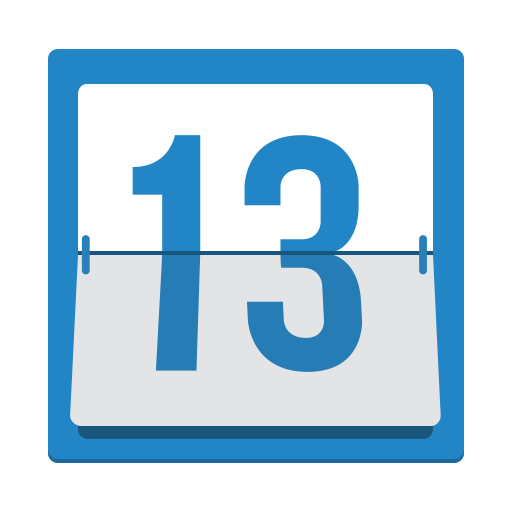
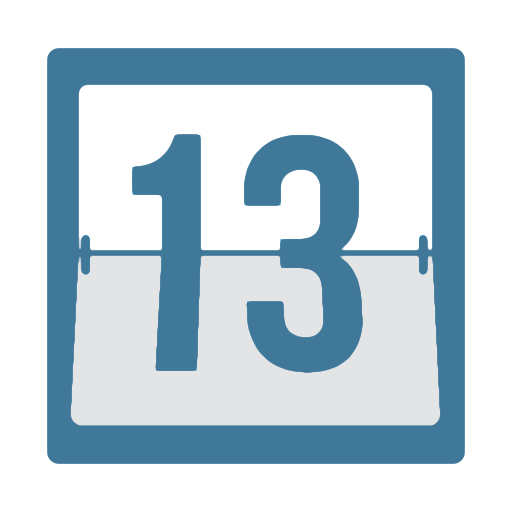
Refactor landing page styles and markup

diff --git a/public/templates/index.html b/public/templates/index.html
@@ -1,126 +1,133 @@
-<header id="main-header" class="row">
-  <div class="col-sm-5 col-sm-offset-1">
-    <img class="img-responsive" src="/images/banner.png" alt="GoSnipIt logo banner">
-  </div>
+<div id="home">
+  <header id="main-header" class="row">
+    <div class="col-sm-12">
+      <div class="page-header text-center">
+        <h1>
+          <span id="main-title">
+            GoSnipIt
+            <i class="fa fa-puzzle-piece"></i>
+          </span>
+          <br>
+          <small>
+            Putting together project management
+            one puzzle piece at a time.
+          </small>
+        </h1>
+        <div class="cta">
+          <h2>
+            Join up and make it Snippy!
+          </h2>
+          <div class="cta-buttons">
+            <a href="#" class="btn btn-primary btn-lg">
+              Register
+            </a>
 
-  <div class="col-sm-5">
-    <div class="page-header text-center">
-      <h1>
-        GoSnipIt
-        <i class="fa fa-puzzle-piece"></i>
-        <br>
-        <small>
-          Putting together project management
-          one puzzle piece at a time.
-        </small>
-      </h1>
-      <div class="cta">
-        <h2>
-          Join up and make it Snippy!
-        </h2>
-        <div class="cta-buttons">
-          <a href="#" class="btn btn-primary btn-lg">
-            Register
-          </a>
-
-          <a href="#" class="btn btn-primary btn-lg">
-            Sign In
-          </a>
+            <a href="#" class="btn btn-primary btn-lg">
+              Sign In
+            </a>
+          </div>
         </div>
       </div>
     </div>
-  </div>
-</header>
+  </header>
 
-<!-- Marketing messaging and featurettes
-================================================== -->
-<!-- Wrap the rest of the page in another container to center all the content. -->
+  <!-- Marketing messaging and featurettes
+  ================================================== -->
+  <!-- Wrap the rest of the page in another container to center all the content. -->
 
-<div class="container marketing">
+  <div class="container marketing">
 
-  <!-- Three columns of text below the carousel -->
-  <div class="row">
-    <div class="col-sm-4 text-center">
-      <img src="/images/project.png" alt="Generic placeholder image" width="140" height="140">
-      <h2>Projects</h2>
-      <p class="text-justify">Create and organize your projects so other team members can subscribe to them. Once subscribed you can send and receive snippets about the work done on those projects.</p>
-      <p><a class="btn btn-default" href="#" role="button">View details &raquo;</a></p>
-    </div><!-- /.col-lg-4 -->
-    <div class="col-sm-4 text-center">
-      <img src="/images/team.png" alt="Generic placeholder image" width="140" height="140">
-      <h2>Team Members</h2>
-      <p class="text-justify">Team members can subscribe to other team members to see reports about the work they've done. Keep up-to-date with your team with just a few clicks! It's never been easier to stay in touch with your team.</p>
-      <p><a class="btn btn-default" href="#" role="button">View details &raquo;</a></p>
-    </div><!-- /.col-lg-4 -->
-    <div class="col-sm-4 text-center">
-      <img src="/images/communicate.png" alt="Generic placeholder image" width="140" height="140">
-      <h2>Snippets</h2>
-      <p class="text-justify">Post snippets about the work you've completed each week. Post a snippet about the work you will complete next week. View all the snippets from other team members to which you subscribe.</p>
-      <p><a class="btn btn-default" href="#" role="button">View details &raquo;</a></p>
-    </div><!-- /.col-lg-4 -->
-  </div><!-- /.row -->
+    <!-- Three columns of text below the carousel -->
+    <div class="row">
+      <div class="col-sm-4 text-center">
+        <div class="icon-wrap">
+          <i class="fa fa-folder-open fa-3x"></i>
+        </div>
+        <h2>Projects</h2>
+        <p class="text-justify">Create and organize your projects so other team members can subscribe to them. Once subscribed you can send and receive snippets about the work done on those projects.</p>
+      </div><!-- /.col-lg-4 -->
+      <div class="col-sm-4 text-center">
+        <div class="icon-wrap">
+          <i class="fa fa-users fa-3x"></i>
+        </div>
+        <h2>Team Members</h2>
+        <p class="text-justify">Team members can subscribe to other team members to see reports about the work they've done. Keep up-to-date with your team with just a few clicks! It's never been easier to stay in touch with your team.</p>
+      </div><!-- /.col-lg-4 -->
+      <div class="col-sm-4 text-center">
+        <div class="icon-wrap">
+          <i class="fa fa-send fa-3x"></i>
+        </div>
+        <h2>Snippets</h2>
+        <p class="text-justify">Post snippets about the work you've completed each week. Post a snippet about the work you will complete next week. View all the snippets from other team members to which you subscribe.</p>
+      </div><!-- /.col-lg-4 -->
+    </div><!-- /.row -->
 
 
-  <!-- START THE FEATURETTES -->
+    <!-- START THE FEATURETTES -->
 
-  <hr class="featurette-divider">
+    <hr class="featurette-divider">
 
-  <div class="row featurette">
-    <div class="col-md-7">
-      <h2 class="featurette-heading">
-        Project reports should be simple to organize.
-        <span class="text-muted">GoSnipIt takes care of it for you!</span>
-      </h2>
-      <p class="lead">
-        Lorem ipsum dolor sit amet, consectetur adipisicing elit. Quibusdam blanditiis temporibus aut consequuntur error dolor vitae inventore aliquid, optio fuga exercitationem illum quis aperiam saepe quod sint sapiente minima esse.
-      </p>
+    <div class="row featurette">
+      <div class="col-md-7">
+        <h2 class="featurette-heading">
+          Project reports should be simple to organize.
+          <span class="text-muted">GoSnipIt takes care of it for you!</span>
+        </h2>
+        <p class="lead">
+          Stop endless emailing and messaging to find out what your team members are doing. Find out what they've done every week and what they'll do next week with our snippet system.
+        </p>
+      </div>
+      <div class="col-md-5">
+        <img class="featurette-image img-responsive center-block" src="/images/report.png" alt="Report clipboard">
+      </div>
     </div>
-    <div class="col-md-5">
-      <img class="featurette-image img-responsive center-block" src="/images/report.png" alt="Report clipboard">
+
+    <hr class="featurette-divider">
+
+    <div class="row featurette">
+      <div class="col-md-7 col-md-push-5">
+        <h2 class="featurette-heading">
+          GoSnipIt lets you get weekly updates from your whole team
+          <span class="text-muted">See for yourself.</span>
+        </h2>
+        <p class="lead">
+          Snippets are gathered from all your team members every week. Then they are listed for you for easy review.
+        </p>
+      </div>
+      <div class="col-md-5 col-md-pull-7">
+        <img class="featurette-image img-responsive center-block" src="/images/calendar.png" alt="Calendar">
+      </div>
     </div>
-  </div>
 
-  <hr class="featurette-divider">
+    <hr class="featurette-divider">
 
-  <div class="row featurette">
-    <div class="col-md-7 col-md-push-5">
-      <h2 class="featurette-heading">
-        GoSnipIt lets you get weekly updates from your whole team
-        <span class="text-muted">See for yourself.</span>
-      </h2>
-      <p class="lead">Donec ullamcorper nulla non metus auctor fringilla. Vestibulum id ligula porta felis euismod semper. Praesent commodo cursus magna, vel scelerisque nisl consectetur. Fusce dapibus, tellus ac cursus commodo.</p>
+    <div class="row featurette">
+      <div class="col-md-7">
+        <h2 class="featurette-heading">
+          Easily view what jobs have been finished.
+          <span class="text-muted">Check up on what team members will do next!</span></h2>
+        <p class="lead">
+          Snippets are divided betwen finished and unfinished jobs. You can feel confident about what work is already done on your project and what work will be done next.
+        </p>
+      </div>
+      <div class="col-md-5">
+        <img class="featurette-image img-responsive center-block" src="/images/subscribe.png" alt="Computer with list and check mark">
+      </div>
     </div>
-    <div class="col-md-5 col-md-pull-7">
-      <img class="featurette-image img-responsive center-block" src="/images/calendar.png" alt="Calendar">
-    </div>
-  </div>
 
-  <hr class="featurette-divider">
+    <hr class="featurette-divider">
 
-  <div class="row featurette">
-    <div class="col-md-7">
-      <h2 class="featurette-heading">
-        Easily view what jobs have been finished.
-        <span class="text-muted">Check up on what team members will do next!</span></h2>
-      <p class="lead">Donec ullamcorper nulla non metus auctor fringilla. Vestibulum id ligula porta felis euismod semper. Praesent commodo cursus magna, vel scelerisque nisl consectetur. Fusce dapibus, tellus ac cursus commodo.</p>
-    </div>
-    <div class="col-md-5">
-      <img class="featurette-image img-responsive center-block" src="/images/subscribe.png" alt="Computer with list and check mark">
-    </div>
-  </div>
-
-  <hr class="featurette-divider">
-
-  <!-- /END THE FEATURETTES -->
+    <!-- /END THE FEATURETTES -->
 
 
-  <!-- FOOTER -->
-  <footer>
-    <p class="pull-right"><a href="#">Back to top</a></p>
-    <p>&copy; 2015 GoSnipIt</p>
-  </footer>
+    <!-- FOOTER -->
+    <footer>
+      <p class="pull-right"><a href="#">Back to top</a></p>
+      <p>&copy; 2015 GoSnipIt</p>
+    </footer>
 
-</div><!-- /.container -->
+  </div><!-- /.container -->
+</div>
 
 <hr>
 ---- Old index.html kept for accessing other templates until not needed ----

diff --git a/app/assets/stylesheets/styles/components/_nav.scss b/app/assets/stylesheets/styles/components/_nav.scss
@@ -1,7 +1,7 @@
 //Nav
 
 #main-nav {
-  background: $primary;
+  background: $quinary;
   border: none;
   border-radius: 0;
 
@@ -13,7 +13,7 @@
 
   a.btn,
   button {
-    background: $primary;
+    background: $quinary;
   }
 
   a.btn:hover,
@@ -21,12 +21,12 @@
   button:hover,
   button:active {
     background: $secondary;
-    color: $primary;
+    color: $quinary;
   }
 
   a.btn:active,
   button:active {
-    border-color: darken($primary, 10%);
+    border-color: $quinary;
   }
 }
 
@@ -35,5 +35,5 @@
 }
 
 .navbar-default .navbar-toggle:hover .icon-bar {
-  background-color: $primary;
+  background-color: $quinary;
 }

diff --git a/app/assets/stylesheets/main.scss b/app/assets/stylesheets/main.scss
@@ -17,3 +17,29 @@
   border: 1px solid #ccc;
   padding: 16px;
 }
+
+#home {
+  i {
+    color: $quinary;
+  }
+
+  .btn {
+    background: $quinary;
+  }
+
+  .cta-buttons .btn {
+    width: 25%;
+  }
+
+  #main-title {
+    font-size: 48px;
+  }
+
+  #main-header {
+    height: 384px;
+
+    h1 {
+      line-height: 64px;
+    }
+  }
+}
